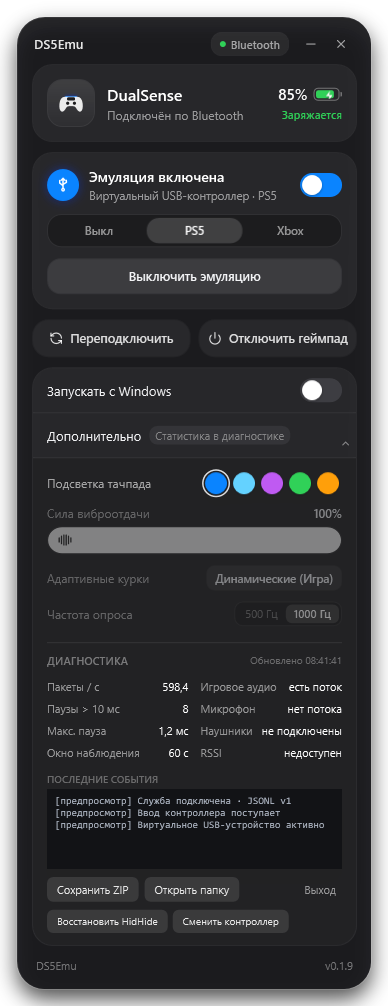
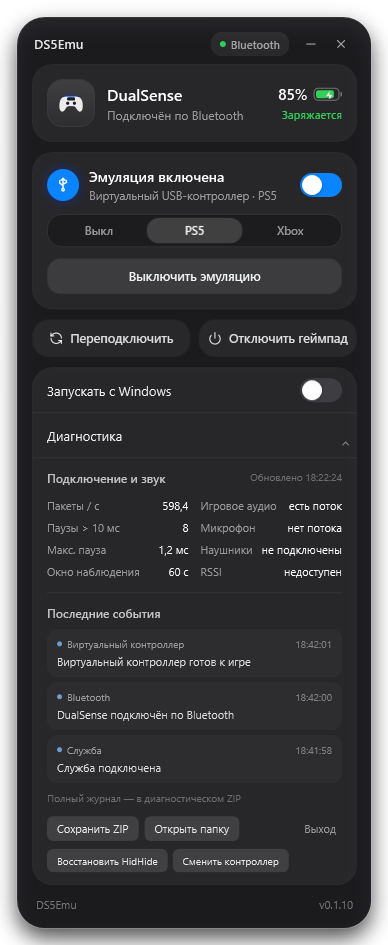
Remove inactive effect settings and integrate diagnostic event feed

diff --git a/src/DSEmu.App/MainWindow.xaml b/src/DSEmu.App/MainWindow.xaml
@@ -347,33 +347,6 @@
             </Setter>
         </Style>
 
-        <!-- Color Well Style -->
-        <Style x:Key="ColorWell" TargetType="Button">
-            <Setter Property="Width" Value="22"/>
-            <Setter Property="Height" Value="22"/>
-            <Setter Property="Cursor" Value="Hand"/>
-            <Setter Property="FocusVisualStyle" Value="{x:Null}"/>
-            <Setter Property="Template">
-                <Setter.Value>
-                    <ControlTemplate TargetType="Button">
-                        <Grid>
-                            <Ellipse x:Name="Ring" Margin="-3" Stroke="#D9FFFFFF" StrokeThickness="1.5" Visibility="Collapsed"/>
-                            <Border CornerRadius="11" Background="{TemplateBinding Background}">
-                                <Border.Effect>
-                                    <DropShadowEffect BlurRadius="3" ShadowDepth="1" Direction="270" Opacity="0.3"/>
-                                </Border.Effect>
-                            </Border>
-                        </Grid>
-                        <ControlTemplate.Triggers>
-                            <Trigger Property="Tag" Value="Selected">
-                                <Setter TargetName="Ring" Property="Visibility" Value="Visible"/>
-                            </Trigger>
-                        </ControlTemplate.Triggers>
-                    </ControlTemplate>
-                </Setter.Value>
-            </Setter>
-        </Style>
-
         <!-- Compact Utility Buttons -->
         <Style x:Key="CompactButton" TargetType="Button">
             <Setter Property="Background" Value="#1CFFFFFF"/>
@@ -422,6 +395,25 @@
                                 <Setter Property="Foreground" Value="White"/>
                             </Trigger>
                         </ControlTemplate.Triggers>
+                    </ControlTemplate>
+                </Setter.Value>
+            </Setter>
+        </Style>
+        <Style TargetType="ScrollBar">
+            <Setter Property="Width" Value="5"/>
+            <Setter Property="Background" Value="Transparent"/>
+            <Setter Property="Template">
+                <Setter.Value>
+                    <ControlTemplate TargetType="ScrollBar">
+                        <Track x:Name="PART_Track" IsDirectionReversed="True" Orientation="Vertical">
+                            <Track.DecreaseRepeatButton><RepeatButton Command="ScrollBar.PageUpCommand" Opacity="0" Focusable="False"/></Track.DecreaseRepeatButton>
+                            <Track.IncreaseRepeatButton><RepeatButton Command="ScrollBar.PageDownCommand" Opacity="0" Focusable="False"/></Track.IncreaseRepeatButton>
+                            <Track.Thumb>
+                                <Thumb>
+                                    <Thumb.Template><ControlTemplate TargetType="Thumb"><Border x:Name="Grip" CornerRadius="2" Background="#55FFFFFF"/><ControlTemplate.Triggers><Trigger Property="IsMouseOver" Value="True"><Setter TargetName="Grip" Property="Background" Value="#99FFFFFF"/></Trigger></ControlTemplate.Triggers></ControlTemplate></Thumb.Template>
+                                </Thumb>
+                            </Track.Thumb>
+                        </Track>
                     </ControlTemplate>
                 </Setter.Value>
             </Setter>
@@ -654,10 +646,8 @@
                             <Button x:Name="AdvancedButton" Style="{StaticResource GhostRowButton}" Click="ToggleAdvanced" Height="44" Padding="14,0">
                                 <Grid>
                                     <StackPanel Orientation="Horizontal" VerticalAlignment="Center">
-                                        <TextBlock Text="Дополнительно" FontSize="13" Foreground="#F0F1F3" VerticalAlignment="Center"/>
-                                        <Border CornerRadius="8" Background="#0FFFFFFF" Padding="6,2" Margin="8,0,0,0" VerticalAlignment="Center">
-                                            <TextBlock x:Name="SummaryPill" Text="Статистика в диагностике" FontSize="11" Foreground="#66FFFFFF"/>
-                                        </Border>
+                                        <TextBlock Text="Диагностика" FontSize="13" Foreground="#F0F1F3" VerticalAlignment="Center"/>
+
                                     </StackPanel>
                                     <Viewbox Width="12" Height="12" Stretch="Uniform" HorizontalAlignment="Right" VerticalAlignment="Center">
                                         <Canvas Width="24" Height="24">
@@ -672,69 +662,13 @@
                             </Button>
 
                             <!-- Disclosure Expanded Content -->
-                            <Border x:Name="DisclosurePanel" Visibility="Collapsed" Background="#26000000" BorderBrush="#0DFFFFFF" BorderThickness="0,1,0,0" Padding="14,12" CornerRadius="0,0,20,20">
+                            <Border x:Name="DisclosurePanel" Visibility="Collapsed" Background="Transparent" BorderBrush="#0DFFFFFF" BorderThickness="0,1,0,0" Padding="14,12" CornerRadius="0,0,20,20">
                                 <StackPanel>
-                                    <!-- Lightbar (Unimplemented: visible, disabled in driver) -->
-                                    <Grid Margin="0,2,0,11" ToolTip="Настройка подсветки в разработке (кликните для предпросмотра)">
-                                        <TextBlock Text="Подсветка тачпада" FontSize="12" Foreground="#99FFFFFF" VerticalAlignment="Center"/>
-                                        <StackPanel Orientation="Horizontal" HorizontalAlignment="Right">
-                                            <Button IsEnabled="False" ToolTip="Ручная подсветка пока недоступна" Style="{StaticResource ColorWell}" Background="#0A84FF" Tag="Selected" Click="LightbarColor_Click" Margin="3,0"/>
-                                            <Button IsEnabled="False" ToolTip="Ручная подсветка пока недоступна" Style="{StaticResource ColorWell}" Background="#64D2FF" Click="LightbarColor_Click" Margin="3,0"/>
-                                            <Button IsEnabled="False" ToolTip="Ручная подсветка пока недоступна" Style="{StaticResource ColorWell}" Background="#BF5AF2" Click="LightbarColor_Click" Margin="3,0"/>
-                                            <Button IsEnabled="False" ToolTip="Ручная подсветка пока недоступна" Style="{StaticResource ColorWell}" Background="#30D158" Click="LightbarColor_Click" Margin="3,0"/>
-                                            <Button IsEnabled="False" ToolTip="Ручная подсветка пока недоступна" Style="{StaticResource ColorWell}" Background="#FF9F0A" Click="LightbarColor_Click" Margin="3,0"/>
-                                        </StackPanel>
-                                    </Grid>
-
-                                    <!-- Rumble (Unimplemented: visible, disabled) -->
-                                    <StackPanel Margin="0,0,0,11" IsEnabled="False" Opacity="0.5" ToolTip="Сила отдачи управляется играми по умолчанию">
-                                        <Grid Margin="0,0,0,5">
-                                            <TextBlock Text="Сила виброотдачи" FontSize="12" Foreground="#99FFFFFF"/>
-                                            <TextBlock Text="100%" FontSize="12" FontWeight="Medium" Foreground="#E5E7EB" HorizontalAlignment="Right"/>
-                                        </Grid>
-                                        <Border Height="28" CornerRadius="14" Background="#50000000" BorderBrush="#0DFFFFFF" BorderThickness="1">
-                                            <Grid>
-                                                <Border Background="#E0FFFFFF" CornerRadius="14" HorizontalAlignment="Stretch"/>
-                                                <Viewbox Width="14" Height="14" Stretch="Uniform" HorizontalAlignment="Left" Margin="10,0,0,0">
-                                                    <Canvas Width="24" Height="24">
-                                                        <Path Data="M2 8v8 M6 5v14 M18 5v14 M22 8v8 M10 3v18 M14 3v18" Stroke="#202020" StrokeThickness="2.2" StrokeStartLineCap="Round"/>
-                                                    </Canvas>
-                                                </Viewbox>
-                                            </Grid>
-                                        </Border>
-                                    </StackPanel>
-
-                                    <!-- Adaptive Triggers (Unimplemented: visible, disabled) -->
-                                    <Grid Margin="0,0,0,11" IsEnabled="False" Opacity="0.5" ToolTip="Адаптивные триггеры управляются поддерживаемыми играми">
-                                        <TextBlock Text="Адаптивные курки" FontSize="12" Foreground="#99FFFFFF" VerticalAlignment="Center"/>
-                                        <Border CornerRadius="8" Background="#14FFFFFF" BorderBrush="#0DFFFFFF" BorderThickness="1" Padding="8,4" HorizontalAlignment="Right">
-                                            <TextBlock Text="Динамические (Игра)" FontSize="11.5" FontWeight="Medium" Foreground="#E5E7EB"/>
-                                        </Border>
-                                    </Grid>
-
-                                    <!-- Polling Rate (Unimplemented: visible, disabled) -->
-                                    <Grid Margin="0,0,0,12" IsEnabled="False" Opacity="0.5" ToolTip="Частота опроса фиксирована драйвером на 1000 Гц">
-                                        <TextBlock Text="Частота опроса" FontSize="12" Foreground="#99FFFFFF" VerticalAlignment="Center"/>
-                                        <Border CornerRadius="8" Background="#40000000" BorderBrush="#0DFFFFFF" BorderThickness="1" Padding="2" HorizontalAlignment="Right">
-                                            <StackPanel Orientation="Horizontal">
-                                                <Border Padding="8,2" CornerRadius="6">
-                                                    <TextBlock Text="500 Гц" FontSize="11" Foreground="#66FFFFFF"/>
-                                                </Border>
-                                                <Border Padding="8,2" CornerRadius="6" Background="#26FFFFFF">
-                                                    <TextBlock Text="1000 Гц" FontSize="11" FontWeight="SemiBold" Foreground="White"/>
-                                                </Border>
-                                            </StackPanel>
-                                        </Border>
-                                    </Grid>
-
-                                    <!-- Divider before Diagnostics -->
-                                    <Border Height="1" Background="#14FFFFFF" Margin="0,4,0,10"/>
-
                                     <!-- Diagnostics & Logging Section -->
                                     <Border x:Name="DiagnosticsPanel">
                                         <StackPanel>
                                             <Grid Margin="0,0,0,8">
-                                                <TextBlock Text="ДИАГНОСТИКА" FontSize="11" FontWeight="SemiBold" Foreground="#66FFFFFF"/>
+                                                <TextBlock Text="Подключение и звук" FontSize="12" FontWeight="Medium" Foreground="#BBFFFFFF"/>
                                                 <TextBlock x:Name="DiagnosticsUpdated" FontSize="10" Foreground="#55FFFFFF" HorizontalAlignment="Right"/>
                                             </Grid>
                                             <!-- Metrics Columns -->
@@ -748,8 +682,43 @@
                                                 <StackPanel Grid.Column="2" x:Name="AudioMetrics"/>
                                             </Grid>
                                             <TextBlock x:Name="DiagnosticError" Foreground="#E9B4A8" FontSize="11" TextWrapping="Wrap" Margin="0,0,0,8" Visibility="Collapsed"/>
-                                            <TextBlock Text="ПОСЛЕДНИЕ СОБЫТИЯ" FontSize="10" FontWeight="SemiBold" Foreground="#55FFFFFF" Margin="0,0,0,4"/>
-                                            <TextBox x:Name="LogText" Height="80" IsReadOnly="True" FontFamily="Consolas" FontSize="10" Background="#121316" Foreground="#AEB6C3" BorderThickness="0" Padding="6" TextWrapping="NoWrap" HorizontalScrollBarVisibility="Auto" VerticalScrollBarVisibility="Auto"/>
+                                            <Border Height="1" Background="#0DFFFFFF" Margin="0,2,0,12"/>
+                                            <TextBlock Text="Последние события" FontSize="12" FontWeight="Medium" Foreground="#BBFFFFFF" Margin="0,0,0,8"/>
+                                            <TextBlock x:Name="EventsEmpty" Text="Событий пока нет" FontSize="11" Foreground="#66FFFFFF" Margin="0,0,0,10"/>
+                                            <ItemsControl x:Name="EventList" AutomationProperties.Name="Последние события службы">
+                                                <ItemsControl.ItemTemplate>
+                                                    <DataTemplate>
+                                                        <Border Background="#07FFFFFF" CornerRadius="10" Padding="10,8" Margin="0,0,0,5" ToolTip="{Binding Detail}">
+                                                            <StackPanel>
+                                                                <Grid Margin="0,0,0,4">
+                                                                    <Grid.ColumnDefinitions>
+                                                                        <ColumnDefinition Width="10"/>
+                                                                        <ColumnDefinition Width="*"/>
+                                                                        <ColumnDefinition Width="Auto"/>
+                                                                        <ColumnDefinition Width="Auto"/>
+                                                                    </Grid.ColumnDefinitions>
+                                                                    <Ellipse Width="5" Height="5" HorizontalAlignment="Left" VerticalAlignment="Center">
+                                                                        <Ellipse.Style>
+                                                                            <Style TargetType="Ellipse">
+                                                                                <Setter Property="Fill" Value="#6B9ECE"/>
+                                                                                <Style.Triggers>
+                                                                                    <DataTrigger Binding="{Binding Level}" Value="WARN"><Setter Property="Fill" Value="#FFB340"/></DataTrigger>
+                                                                                    <DataTrigger Binding="{Binding Level}" Value="ERROR"><Setter Property="Fill" Value="#FF7069"/></DataTrigger>
+                                                                                </Style.Triggers>
+                                                                            </Style>
+                                                                        </Ellipse.Style>
+                                                                    </Ellipse>
+                                                                    <TextBlock Grid.Column="1" Text="{Binding Category}" FontSize="10" Foreground="#88FFFFFF"/>
+                                                                    <TextBlock Grid.Column="2" Text="{Binding RepeatLabel}" FontSize="10" Foreground="#66FFFFFF" Margin="0,0,6,0"/>
+                                                                    <TextBlock Grid.Column="3" Text="{Binding Time}" FontSize="10" Foreground="#66FFFFFF"/>
+                                                                </Grid>
+                                                                <TextBlock Text="{Binding Message}" FontSize="11" Foreground="#D9FFFFFF" TextWrapping="Wrap" TextTrimming="CharacterEllipsis" MaxHeight="44"/>
+                                                            </StackPanel>
+                                                        </Border>
+                                                    </DataTemplate>
+                                                </ItemsControl.ItemTemplate>
+                                            </ItemsControl>
+                                            <TextBlock Text="Полный журнал — в диагностическом ZIP" FontSize="10" Foreground="#55FFFFFF" Margin="0,3,0,4"/>
                                             <Grid Margin="0,8,0,0">
                                                 <Grid.ColumnDefinitions>
                                                     <ColumnDefinition Width="Auto"/>

diff --git a/src/DSEmu.App/MainWindow.cs b/src/DSEmu.App/MainWindow.cs
@@ -33,6 +33,7 @@ internal sealed partial class MainWindow : Window {
     string notifiedError = "", trayState = "";
     DateTime lastDiagnostics = DateTime.MinValue;
     string[] diagnosticLines = Array.Empty<string>();
+    DiagnosticEvent[] eventRows = Array.Empty<DiagnosticEvent>();
     DispatcherTimer? footerResetTimer;
 
     static readonly Brush GreenBrush = new SolidColorBrush(Color.FromRgb(48, 209, 88));
@@ -236,10 +237,11 @@ internal sealed partial class MainWindow : Window {
 
         if (state.LogLines.Length > 0) {
             diagnosticLines = state.LogLines;
-            var text = string.Join(Environment.NewLine, state.LogLines.Select(Diagnostics.Mask));
-            if (LogText.Text != text) {
-                LogText.Text = text;
-                LogText.ScrollToEnd();
+            var events = Diagnostics.RecentEvents(state.LogLines);
+            if (!eventRows.SequenceEqual(events)) {
+                eventRows = events;
+                EventList.ItemsSource = events;
+                EventsEmpty.Visibility = events.Length == 0 ? Visibility.Visible : Visibility.Collapsed;
             }
             DiagnosticsUpdated.Text = "Обновлено " + DateTime.Now.ToString("HH:mm:ss");
         }
@@ -542,22 +544,6 @@ internal sealed partial class MainWindow : Window {
     async void DisconnectController(object sender, RoutedEventArgs e) {
         SetFooterMessage("Геймпад отключён");
         await Command("disconnect");
-    }
-
-    // Lightbar color preview
-    void LightbarColor_Click(object sender, RoutedEventArgs e) {
-        if (sender is Button btn && btn.Background is SolidColorBrush brush) {
-            GlyphLightbar.Stroke = brush;
-            GlyphLightbarGlow.Color = brush.Color;
-
-            // Update Tag="Selected"
-            if (btn.Parent is Panel panel) {
-                foreach (var child in panel.Children) {
-                    if (child is Button b) b.Tag = (b == btn) ? "Selected" : null;
-                }
-            }
-            SetFooterMessage("Цвет подсветки обновлён");
-        }
     }
 
     async void RecoverController(object sender, RoutedEventArgs e) => await Command("recover");

diff --git a/src/DSEmu.App/Diagnostics.cs b/src/DSEmu.App/Diagnostics.cs
@@ -1,7 +1,36 @@
-using System;
+using System;
+using System.Collections.Generic;
+using System.Globalization;
+using System.Linq;
 using System.Text.RegularExpressions;
 namespace DSEmu;
+internal sealed record DiagnosticEvent(string Time,string Level,string Category,string Message,string Detail,int Count=1) {
+ public string RepeatLabel => Count>1?"×"+Count:"";
+}
 internal static class Diagnostics {
+ internal static DiagnosticEvent[] RecentEvents(IEnumerable<string> lines) {
+  var events=new List<DiagnosticEvent>();
+  string? previousMessage=null;
+  foreach(var raw in lines) {
+   if(string.IsNullOrWhiteSpace(raw))continue;
+   var safe=Mask(raw);var parts=safe.Split('|',4);
+   var structured=parts.Length==4 && parts[2] is "DEBUG" or "INFO" or "WARN" or "ERROR";
+   var time=structured && DateTimeOffset.TryParse(parts[0],CultureInfo.InvariantCulture,DateTimeStyles.None,out var stamp)?stamp.ToString("HH:mm:ss",CultureInfo.InvariantCulture):"";
+   var level=structured?parts[2]:"INFO";
+   if(level=="DEBUG")continue;
+   var scope=structured?parts[1]:"daemon";
+   var category=scope switch {"bluetooth" or "hid"=>"Bluetooth","port" or "usb"=>"Виртуальный контроллер","input-audio" or "output"=>"Звук и эффекты","config"=>"Настройки","control"=>"Управление","input-control"=>"Ввод",_=>"Служба"};
+   var message=Regex.Replace(structured?parts[3]:safe,@"\s+"," ").Trim();
+   if(message.Length==0)continue;
+   // Keep the original masked detail for tooltips; ZIP export retains all raw lines.
+   if(events.Count>0 && events[^1].Level==level && events[^1].Category==category && previousMessage==message) {
+    events[^1]=events[^1] with {Time=time,Detail=safe,Count=events[^1].Count+1};continue;
+   }
+   events.Add(new(time,level,category,message.Length>220?message[..219]+"…":message,safe));
+   previousMessage=message;
+  }
+  return events.TakeLast(3).Reverse().ToArray();
+ }
  internal static string Mask(string text) {
   text=Regex.Replace(text,@"(?i)([0-9a-f]{2}:){5}[0-9a-f]{2}","<device>");
   text=Regex.Replace(text,@"(?i)\b[0-9a-f]{12}\b","<device>");

diff --git a/tests/DSEmu.UiTests/Program.cs b/tests/DSEmu.UiTests/Program.cs
@@ -14,11 +14,14 @@ internal class Program {
    st.GetProperty("Mode")!.SetValue(state,mode);
    st.GetProperty("State")!.SetValue(state,stateName);st.GetProperty("Enabled")!.SetValue(state,true);
    if(stateName=="Error")st.GetProperty("Error")!.SetValue(state,string.Join(" ",Enumerable.Repeat("Ошибка восстановления контроллера.",20)));
+   st.GetProperty("LogLines")!.SetValue(state,new[]{"2026-11-02T18:40:00+03:00|daemon|INFO|Служба запущена", "2026-11-02T18:40:01+03:00|bluetooth|WARN|Проверка соединения с контроллером", "2026-11-02T18:40:02+03:00|port|ERROR|"+new string('x',500)});
    wt.GetMethod("Display")!.Invoke(window,new[]{state});wt.GetMethod("SetDiagnosticsOpen",BindingFlags.Instance|BindingFlags.NonPublic)!.Invoke(window,new object[]{true});
    if(stateName!="Active" && ((TextBlock)window.FindName("EmuTitle")).Text=="Эмуляция включена")throw new Exception("Inactive session presented as active");
    if(stateName=="Active" && mode=="xbox" && !((TextBlock)window.FindName("EmuSubtitle")).Text.Contains("Xbox 360"))throw new Exception("Xbox mode missing from UI");
    if(window.FindName("SegmentDS4") != null)throw new Exception("DS4 placeholder must be removed");
    if(Grid.GetColumn((Button)window.FindName("SegmentXInput")) != 2)throw new Exception("Xbox segment must occupy the third column");
+   if(window.FindName("LogText") != null)throw new Exception("Raw nested log textbox must be removed");
+   if(((ItemsControl)window.FindName("EventList")).Items.Count!=3)throw new Exception("Recent events missing from diagnostics");
    var scroll=(ScrollViewer)window.Content;scroll.Measure(new Size(388,height));scroll.Arrange(new Rect(0,0,388,height));scroll.UpdateLayout();
    if(scroll.ViewportHeight>height+1 || scroll.ViewportHeight<=0)throw new Exception("Invalid viewport");
    if(((ColumnDefinition)window.FindName("BatteryFilled")).Width.Value!=0)throw new Exception("Unknown battery has invented level");

diff --git a/tests/DSEmu.Tests/Program.cs b/tests/DSEmu.Tests/Program.cs
@@ -1,4 +1,4 @@
-using System.IO.Pipes;
+using System.IO.Pipes;
 using System.IO;
 using System.Text;
 using System.Text.Json;
@@ -27,4 +27,19 @@ static async Task TestClient(string scenario) {
 foreach(var scenario in new[]{"valid","id","version","error","large","eof"})await TestClient(scenario);
 var masked=Diagnostics.Mask("address=12:34:56:78:9a:bc HID\\VID_054C&PID_0CE6\\123456789ABC");
 Check(!masked.Contains("12:34") && !masked.Contains("123456789ABC") && !masked.Contains("VID_054C"),"Private device identity leaked");
-Console.WriteLine("7 managed protocol/diagnostic scenarios passed");
+var eventInput=new[]{
+ "2026-11-02T12:00:00.100+03:00|daemon|INFO|Service started",
+ "2026-11-02T12:00:01.100+03:00|bluetooth|WARN|address=12:34:56:78:9a:bc disconnected",
+ "2026-11-02T12:00:02.100+03:00|bluetooth|WARN|address=12:34:56:78:9a:bc disconnected",
+ "2026-11-02T12:00:03.100+03:00|input-control|DEBUG|packet details",
+ "2026-11-02T12:00:04.100+03:00|port|ERROR|"+new string('x',500),
+ "Unstructured legacy message"
+};
+var events=Diagnostics.RecentEvents(eventInput);
+Check(events.Length==3 && events[0].Message=="Unstructured legacy message","Recent event order/bound failed");
+Check(events[1].Level=="ERROR" && events[1].Time=="12:00:04" && events[1].Message.Length==220 && events[1].Detail.Length>500,"Severity, timestamp or bounded text lost");
+Check(events[2].Count==2 && events[2].RepeatLabel=="×2" && !events[2].Detail.Contains("12:34:56") && events[2].Time=="12:00:02","Repeated events or masking failed");
+Check(Diagnostics.RecentEvents(new[]{"", " ", "2026-11-02T12:00:00+03:00|daemon|DEBUG|hidden detail"}).Length==0,"Empty/debug-only log must remain empty");
+Check(eventInput[1].Contains("12:34:56:78:9a:bc"),"Event presentation mutated original export data");
+Check(Diagnostics.RecentEvents(new[]{"legacy|same", "same"}).Length==2,"Different legacy messages were incorrectly merged");
+Console.WriteLine("13 managed protocol/diagnostic scenarios passed");

diff --git a/src/DSEmu.App/App.cs b/src/DSEmu.App/App.cs
@@ -1,4 +1,4 @@
-using System;
+using System;
 using System.Diagnostics;
 using System.IO;
 using System.Security.Principal;
@@ -25,7 +25,7 @@ internal static class App {
    bool advanced=Array.IndexOf(args,"--advanced")>=0;
    bool disconnected=Array.IndexOf(args,"--disconnected")>=0;
    string state=Array.IndexOf(args,"--paused")>=0||disconnected?"Paused":Array.IndexOf(args,"--error")>=0?"Error":"Active";
-   preview.Display(new BridgeState {State=state,Enabled=state!="Paused",BluetoothDisconnected=disconnected,BatteryPercent=state=="Active"?85:null,Charging=state=="Active",PacketsPerSecond=state=="Active"?598.4:0,GapsOver10ms=8,MaxGapMs=1.2,ObservedSeconds=60,AudioActive=true,Error=state=="Error"?"Нет связи со службой. Проверьте установку DS5Emu.":"",LogLines=new[]{"[предпросмотр] Служба подключена · JSONL v1","[предпросмотр] Ввод контроллера поступает","[предпросмотр] Виртуальное USB-устройство активно"}});
+   preview.Display(new BridgeState {State=state,Enabled=state!="Paused",BluetoothDisconnected=disconnected,BatteryPercent=state=="Active"?85:null,Charging=state=="Active",PacketsPerSecond=state=="Active"?598.4:0,GapsOver10ms=8,MaxGapMs=1.2,ObservedSeconds=60,AudioActive=true,Error=state=="Error"?"Нет связи со службой. Проверьте установку DS5Emu.":"",LogLines=new[]{"2026-11-02T18:41:58.000+03:00|daemon|INFO|Служба подключена", "2026-11-02T18:42:00.000+03:00|bluetooth|INFO|DualSense подключён по Bluetooth", "2026-11-02T18:42:01.000+03:00|port|INFO|Виртуальный контроллер готов к игре"}});
    preview.SetDiagnosticsOpen(advanced);
    int width=388;
    var content=(FrameworkElement)preview.Content;content.Measure(new Size(width,double.PositiveInfinity));

diff --git a/README.md b/README.md
@@ -4,7 +4,7 @@
 
 Полноценный DualSense по Bluetooth на Windows: игра видит виртуальный USB-контроллер PS5, а DS5Emu передаёт эффекты и звук на настоящий геймпад.
 
-**[Скачать установщик](https://github.com/Q1W1RTY/DS5Emu/releases/tag/v0.1.9)** · [Инструкция](docs/user/INSTALL.md)
+**[Скачать установщик](https://github.com/Q1W1RTY/DS5Emu/releases/tag/v0.1.10)** · [Инструкция](docs/user/INSTALL.md)
 
 ![Интерфейс DS5Emu](docs/design/main.png)
 
@@ -19,7 +19,7 @@
 
 ## Установка
 
-1. Скачать и запустить **DS5Emu-Setup.exe** из [Releases](https://github.com/Q1W1RTY/DS5Emu/releases/tag/v0.1.9).
+1. Скачать и запустить **DS5Emu-Setup.exe** из [Releases](https://github.com/Q1W1RTY/DS5Emu/releases/tag/v0.1.10).
 2. Установщик проверит драйверы. Для недостающих компонентов нажать «Установить», затем установить приложение. Совместимые имеющиеся драйверы пропускаются. Если потребуется, перезагрузить ПК.
 3. Сопрячь DualSense с Windows по Bluetooth: удерживать **Create + PS** до мигания, затем добавить устройство в параметрах Windows.
 4. Открыть DS5Emu и выбрать режим PS5 или Xbox.
@@ -31,7 +31,7 @@
 - Для нативных эффектов нужна игра с поддержкой DualSense на ПК. Если мешает Steam Input, отключить его для этой игры.
 - DSX и другие программы эмуляции на время работы DS5Emu нужно закрыть.
 - Windows может переключить основной звук или микрофон на DualSense. При необходимости вернуть привычное устройство в настройках звука.
-- Это ранняя версия. 0.1.9 опубликована как предварительная сборка; физическая игровая проверка режима Xbox ещё не завершена.
+- Это ранняя версия. 0.1.10 опубликована как предварительная сборка; физическая игровая проверка режима Xbox ещё не завершена.
 - Установщик пока не подписан сертификатом издателя. Драйверы используют собственные подписанные установщики.
 
 ## Исходники

diff --git a/docs/user/INSTALL.md b/docs/user/INSTALL.md
@@ -67,10 +67,16 @@ HidHide: https://github.com/nefarius/HidHide
 
 ViGEmBus — архивный драйвер; в комплекте зафиксирована официальная версия 1.22.0: https://github.com/nefarius/ViGEmBus/releases/tag/v1.22.0 . Автообновление драйвера приложением не выполняется.
 
-Версия 0.1.9 — кандидат: автоматические проверки не заменяют проверку ввода, вибрации и переключения режимов на физическом контроллере.
+Версия 0.1.10 — кандидат: автоматические проверки не заменяют проверку ввода, вибрации и переключения режимов на физическом контроллере.
 
 ## Мастер установки
 
 ![Установщик DS5Emu](../design/setup.png)
 
 Внешний вид соответствует приложению: тёмные панели, синие основные действия и зелёные статусы готовых компонентов. В приложении доступны только Выкл, PS5 и Xbox; недоступная кнопка DS4 удалена.
+
+## Диагностика
+
+В разделе «Диагностика» показаны показатели соединения и звука, три последних события и действия восстановления. Повторы событий объединяются; подробная строка доступна по наведению. «Сохранить ZIP» сохраняет полный полученный журнал, включая DEBUG-строки. Идентификаторы устройства скрываются и в интерфейсе, и при экспорте.
+
+Ручные настройки подсветки, вибрации, курков и частоты опроса удалены. Приложение не переопределяет цвет, силу отдачи или эффекты курков, присланные игрой.

diff --git a/docs/development/BUILD.md b/docs/development/BUILD.md
@@ -35,7 +35,7 @@ scripts/test.ps1 запускает CTest и managed-сценарии прото
 
 ## Кандидат после ревью
 
-Версия задаётся в VERSION. scripts/test.ps1 включает 9 native-групп, 7 managed-сценариев и 36 UI layout/state-сценариев с синтетическими областями просмотра. Повышенный scripts/qa-install-path.ps1 использует отдельную службу, pipe, реестр и защищённую папку с пробелами/кириллицей/скобками; TestDrive задаёт локальный диск. Настоящие драйверы fixture не устанавливает. scripts/qa-cleanup-fixtures.ps1 удаляет его проверенные собственные каталоги, сохраняя отчёты.
+Версия задаётся в VERSION. scripts/test.ps1 включает 9 native-групп, 13 managed-сценариев и 36 UI layout/state-сценариев с синтетическими областями просмотра. Повышенный scripts/qa-install-path.ps1 использует отдельную службу, pipe, реестр и защищённую папку с пробелами/кириллицей/скобками; TestDrive задаёт локальный диск. Настоящие драйверы fixture не устанавливает. scripts/qa-cleanup-fixtures.ps1 удаляет его проверенные собственные каталоги, сохраняя отчёты.
 
 Для тестового EXE с изменённым native: scripts/build-setup.ps1 -CandidateNativeDirectory <artifacts/native-Release>. Метаданные сохраняют candidate=true и hardwareAccepted=false; это не снимает защиту принятого native-хеша в обычном профиле. qa-setup проверяет выбранный режим и хеши. Принятие нового native и публикация требуют отдельного решения после аппаратной проверки.
 

diff --git a/docs/releases/CHANGELOG.md b/docs/releases/CHANGELOG.md
@@ -1,4 +1,10 @@
-## 0.1.9 — оформление установщика
+## 0.1.10 — настройки и события
+
+- Убраны неработающие настройки подсветки, силы вибрации, адаптивных курков и частоты опроса. Игра сохраняет управление эффектами без ручных переопределений.
+- Раздел «Дополнительно» заменён на «Диагностика». Вместо сырого текстового окна — три последних события с временем, категорией и уровнем важности; повторы группируются, технические DEBUG-строки остаются в ZIP.
+- Полные строки доступны в подсказках и диагностическом ZIP; идентификаторы устройств скрываются. Убрана вложенная прокрутка журнала, общая прокрутка оформлена в стиле приложения.
+
+## 0.1.9 — оформление установщика
 
 - Установщик оформлен в стиле приложения: тёмные скруглённые панели, синие основные действия, читаемые статусы компонентов и собственная строка заголовка.
 - Убрана недоступная кнопка DS4; остаются Выкл, PS5 и Xbox.
